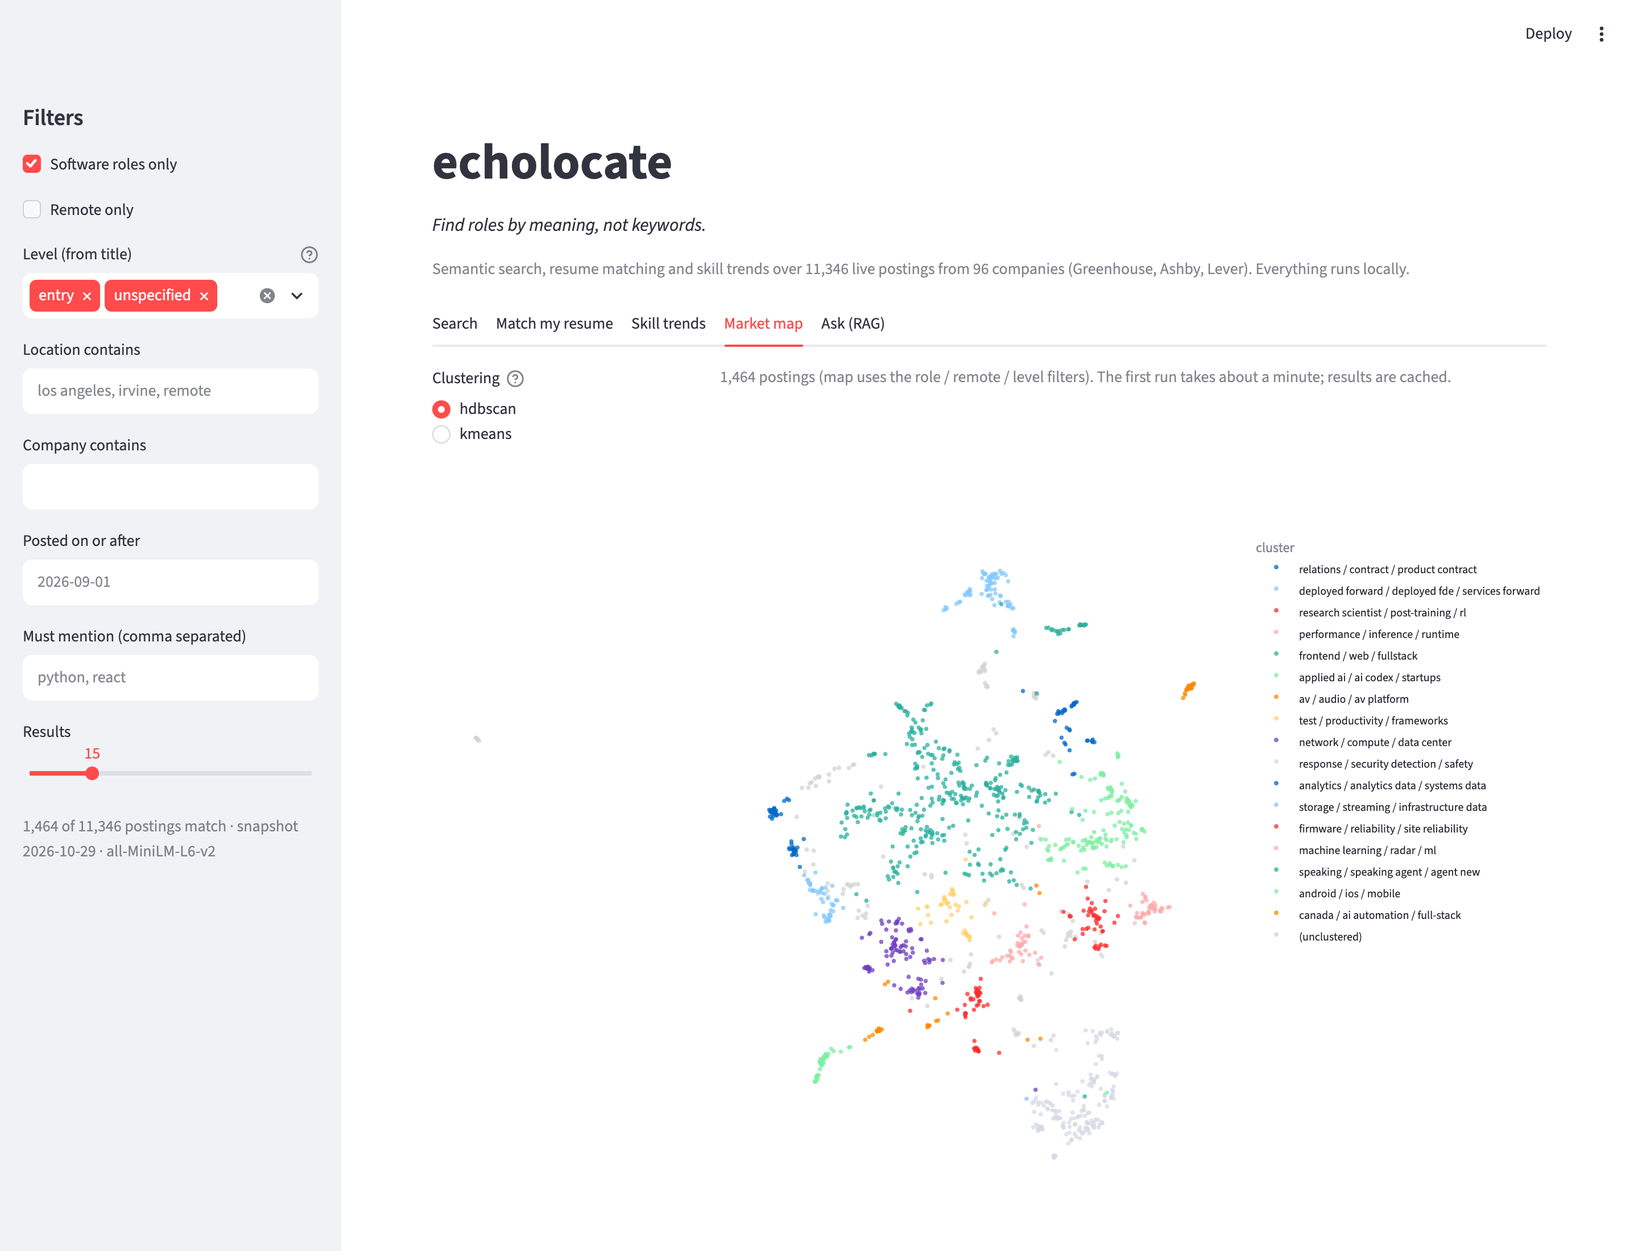
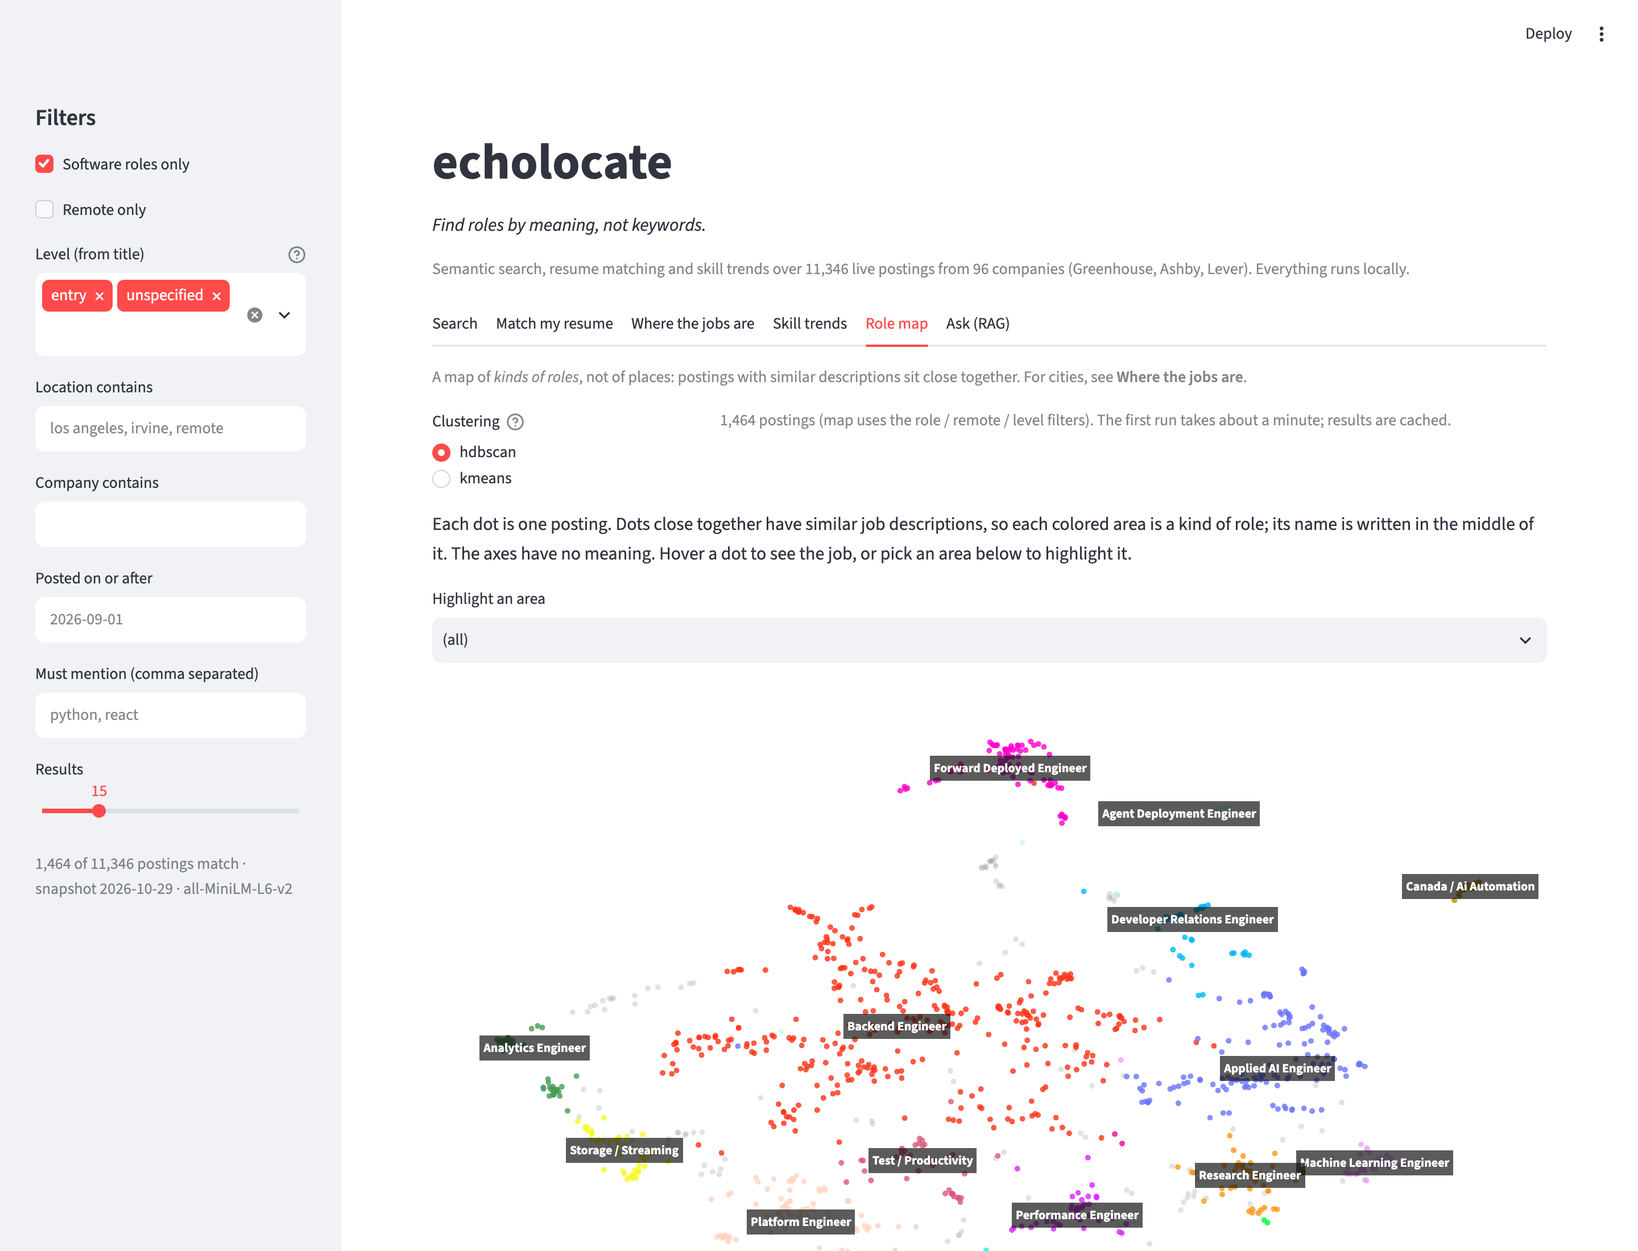
feat: add 'Where the jobs are' city map and rename Market map to Role map

diff --git a/app.py b/app.py
@@ -138,7 +138,7 @@ st.caption(f"Semantic search, resume matching and skill trends over {len(df):,} 
               "[source and setup on GitHub](https://github.com/sophiazhangio/echolocate)."
               if config.DEMO else "Everything runs locally."))
 
-tabs = st.tabs(["Search", "Match my resume", "Skill trends", "Market map", "Ask (RAG)"])
+tabs = st.tabs(["Search", "Match my resume", "Where the jobs are", "Skill trends", "Role map", "Ask (RAG)"])
 
 # --- Search ---------------------------------------------------------------------------
 with tabs[0]:
@@ -203,8 +203,73 @@ with tabs[1]:
             st.dataframe(top[["skill", "share", "on resume"]].rename(columns={"share": "% of postings"}),
                          hide_index=True, height=600)
 
-# --- Trends -----------------------------------------------------------------------------
+# --- Where ------------------------------------------------------------------------------
+@st.cache_resource(show_spinner="Placing postings on the map ...")
+def all_cities(_date: str) -> pd.DataFrame:
+    from echolocate.geo import city_table
+    return city_table(df)
+
+
+REGIONS = {"World": "world", "North America": "north america", "USA": "usa", "Europe": "europe", "Asia": "asia"}
+
 with tabs[2]:
+    try:
+        sub = df[f.mask(df)]
+        ct = all_cities(ix.latest_date)
+        here = ct[ct["row"].isin(sub.index)]
+        st.markdown("Each circle is a city. Bigger circles have more open postings that match the sidebar "
+                    "filters; a posting listed in several cities counts in each. Hover a circle for its top "
+                    "companies, or pick a city below to list its jobs.")
+        m1, m2, m3 = st.columns(3)
+        m1.metric("Postings with a city", f"{here['row'].nunique():,}")
+        m2.metric("Remote postings", f"{int(sub['remote'].sum()):,}")
+        m3.metric("Cities", f"{here.groupby(['city', 'country']).ngroups:,}")
+        region = st.radio("Region", list(REGIONS), horizontal=True, label_visibility="collapsed")
+        if here.empty:
+            st.info("No postings with a city match these filters.")
+        else:
+            agg = (here.groupby(["city", "country", "lat", "lon"])["row"]
+                   .agg(postings="nunique", companies=lambda r: ", ".join(df.loc[r, "company"].value_counts()
+                                                                           .head(4).index))
+                   .reset_index().sort_values("postings", ascending=False))
+            agg["place"] = agg["city"] + ", " + agg["country"]
+            fig = px.scatter_geo(agg, lat="lat", lon="lon", size="postings", hover_name="place",
+                                 hover_data={"postings": True, "companies": True, "lat": False, "lon": False},
+                                 size_max=45, scope=REGIONS[region],
+                                 **({} if region == "USA" else {"projection": "natural earth"}))
+            fig.update_traces(marker=dict(color="#ff4b4b", opacity=0.65, line=dict(width=0.5, color="white")))
+            # name the biggest cities, skipping any that sit right next to a bigger named one
+            near = {"World": 6.0, "USA": 1.5}.get(region, 3.0)
+            named = []
+            for r in agg.itertuples():
+                if len(named) == 15:
+                    break
+                if all(abs(r.lat - n.lat) > near or abs(r.lon - n.lon) > near for n in named):
+                    named.append(r)
+            top = pd.DataFrame(named)
+            fig.add_scattergeo(lat=top["lat"], lon=top["lon"], text=top["city"], mode="text",
+                               textposition="top center", textfont=dict(size=11), hoverinfo="skip",
+                               showlegend=False)
+            fig.update_geos(showcountries=True, countrycolor="rgba(140,140,140,0.7)", showcoastlines=True,
+                            coastlinecolor="rgba(140,140,140,0.7)", showland=True,
+                            landcolor="rgba(140,140,140,0.15)", showocean=False, showlakes=False,
+                            showsubunits=True, subunitcolor="rgba(140,140,140,0.35)", bgcolor="rgba(0,0,0,0)",
+                            showframe=False)
+            fig.update_layout(height=620, margin=dict(l=0, r=0, t=0, b=0))
+            st.plotly_chart(fig)
+            choices = [f"{r.place} ({r.postings})" for r in agg.itertuples()]
+            pick = st.selectbox("Jobs in a city", choices)
+            r = agg.iloc[choices.index(pick)]
+            rows = here[(here["city"] == r["city"]) & (here["country"] == r["country"])]["row"].unique()
+            jobs = df.loc[rows, ["title", "company", "level", "posted", "pay", "url"]].sort_values("posted",
+                                                                                                 ascending=False)
+            st.dataframe(jobs, hide_index=True, column_config={
+                "url": st.column_config.LinkColumn("link", display_text="open")})
+    except Exception:
+        st.error("The location map couldn't be drawn for these filters. Try widening them in the sidebar.")
+
+# --- Trends -----------------------------------------------------------------------------
+with tabs[3]:
     from echolocate.trends import by_posted_month, demand, over_time, rising
     sub = df[f.mask(df)]
     d = demand(sub)
@@ -237,15 +302,19 @@ with tabs[2]:
         st.plotly_chart(fig)
         st.caption("Older months only include postings that are still open, which skews toward hard-to-fill roles.")
 
-# --- Map --------------------------------------------------------------------------------
-with tabs[3]:
-    from echolocate.clusters import cluster_map
+# --- Role map ---------------------------------------------------------------------------
+def role_map_tab():
+    from echolocate.clusters import MIN_POSTINGS, cluster_map
     c1, c2 = st.columns([1, 3])
     method = c1.radio("Clustering", ["hdbscan", "kmeans"], help="HDBSCAN finds its own number of clusters "
                       "and leaves outliers unclustered; KMeans assigns everything to 20 clusters.")
     map_mask = Filters(software_only=software_only, remote_only=remote_only, levels=levels).mask(df)
     c2.caption(f"{map_mask.sum():,} postings (map uses the role / remote / level filters). "
                "The first run takes about a minute; results are cached.")
+    if map_mask.sum() < MIN_POSTINGS:
+        st.info(f"Only {map_mask.sum()} postings match the role / remote / level filters; the role map needs "
+                f"at least {MIN_POSTINGS}. Add a level or turn off 'Remote only' in the sidebar.")
+        return
     with st.spinner("Projecting with UMAP and clustering ..."):
         pts, clusters = cluster_map(ix, map_mask, method=method)
     st.markdown("Each dot is one posting. Dots close together have similar job descriptions, so each "
@@ -293,8 +362,17 @@ with tabs[3]:
     table = clusters.assign(area=clusters["label"].map(names)).rename(columns={"label": "keywords"})
     st.dataframe(table[["area", "keywords", "postings", "top companies", "top skills"]], hide_index=True)
 
-# --- RAG --------------------------------------------------------------------------------
+
 with tabs[4]:
+    st.caption("A map of *kinds of roles*, not of places: postings with similar descriptions sit close "
+               "together. For cities, see **Where the jobs are**.")
+    try:
+        role_map_tab()
+    except Exception:
+        st.error("The role map couldn't be drawn for these filters. Try widening them in the sidebar.")
+
+# --- RAG --------------------------------------------------------------------------------
+with tabs[5]:
     from echolocate.rag import ask, gather, ollama_status
     ok, msg = (False, "") if config.DEMO else ollama_status()
     if config.DEMO:

diff --git a/echolocate/geo.py b/echolocate/geo.py
@@ -1,0 +1,133 @@
+"""Turn free-text job locations into cities with coordinates, offline.
+
+Job boards write locations every which way ("San Francisco, CA | New York City, NY",
+"NY or SF; US", "ES - Barcelona, Spain"). We split the text into pieces, look each piece up in
+GeoNames' list of cities over 15k people (bundled by `geonamescache`, no network), and use a
+following state or country ("Portland, OR") to pick the right one when a name is shared.
+"""
+from __future__ import annotations
+
+import re
+import unicodedata
+from functools import lru_cache
+
+import pandas as pd
+
+# Shorthand job boards use that GeoNames doesn't list as a name.
+ALIASES = {
+    "nyc": "new york", "ny": "new york", "new york city": "new york", "nyc metro": "new york", "manhattan": "new york",
+    "brooklyn": "new york", "sf": "san francisco", "sfo": "san francisco", "bay area": "san francisco",
+    "sf bay area": "san francisco", "san francisco bay area": "san francisco", "dc": "washington",
+    "washington dc": "washington", "washington d.c.": "washington", "d.c.": "washington",
+    "bangalore": "bengaluru", "gurgaon": "gurugram", "la": "los angeles", "tel-aviv": "tel aviv",
+    "tel aviv-yafo": "tel aviv", "montreal": "montréal", "zurich": "zürich", "munich": "munich",
+    "sao paulo": "são paulo", "bogota": "bogotá", "mexico city": "mexico city", "cdmx": "mexico city",
+    "seoul": "seoul", "hong kong": "hong kong", "silicon valley": "san jose",
+}
+# Words around a city that aren't part of its name.
+_NOISE = re.compile(r"\b(remote|hybrid|on-?site|in[- ]office|office|offices|hq|headquarters|locations?|"
+                    r"greater|metro(politan)?|area|based|only|preferred|any|downtown|campus|city of)\b", re.I)
+# Countries we weight up when a bare name is shared (most postings here are US tech companies).
+_HOME = {"US": 2.5}
+_COUNTRY_ALIASES = {"usa": "US", "us": "US", "u.s.": "US", "u.s.a.": "US", "united states of america": "US",
+                    "uk": "GB", "england": "GB", "scotland": "GB", "great britain": "GB", "korea": "KR",
+                    "south korea": "KR", "uae": "AE", "the netherlands": "NL", "holland": "NL"}
+# Canadian provinces, which GeoNames stores as numeric codes.
+_CA_PROVINCES = {"bc": "02", "british columbia": "02", "on": "08", "ontario": "08", "qc": "10",
+                 "quebec": "10", "québec": "10", "ab": "01", "alberta": "01", "mb": "03", "ns": "07"}
+# Names that are a city and also a place we'd otherwise skip as a state or country.
+_CITY_STATES = {"new york", "singapore", "washington", "hong kong", "luxembourg", "monaco"}
+
+
+def _fold(s: str) -> str:
+    s = unicodedata.normalize("NFKD", s.lower())
+    return re.sub(r"\s+", " ", "".join(c for c in s if not unicodedata.combining(c))).strip(" .-")
+
+
+@lru_cache(maxsize=1)
+def _tables():
+    import geonamescache
+    gc = geonamescache.GeonamesCache(min_city_population=15000)
+    cities = list(gc.get_cities().values())
+    by_name: dict[str, list[dict]] = {}
+    for c in cities:
+        keys = {_fold(c["name"])}
+        if c["population"] >= 1_000_000:  # well-known alternate spellings of big cities only
+            keys |= {_fold(a) for a in c["alternatenames"] if a.isascii() and len(a) > 3}
+        for k in keys:
+            by_name.setdefault(k, []).append(c)
+    for alias, target in ALIASES.items():
+        if _fold(target) in by_name:
+            by_name.setdefault(_fold(alias), by_name[_fold(target)])
+    countries = {}
+    for iso, c in gc.get_countries().items():
+        countries[_fold(c["name"])] = iso
+        countries[iso.lower()] = iso
+        countries[c["iso3"].lower()] = iso
+    countries.update(_COUNTRY_ALIASES)
+    states = {}
+    for code, s in gc.get_us_states().items():
+        states[code.lower()] = code
+        states[_fold(s["name"])] = code
+    names = {iso: c["name"] for iso, c in gc.get_countries().items()}
+    return by_name, countries, states, names
+
+
+def _qualifies(city: dict, token: str) -> bool:
+    _, countries, states, _ = _tables()
+    t = _fold(token)
+    if t in states and city["countrycode"] == "US":
+        return city["admin1code"] == states[t]
+    if t in _CA_PROVINCES and city["countrycode"] == "CA":
+        return city["admin1code"] == _CA_PROVINCES[t]
+    if t in countries:
+        return city["countrycode"] == countries[t]
+    return False
+
+
+def _pick(cands: list[dict], qualifier: str | None) -> tuple[dict, bool]:
+    if qualifier:
+        q = [c for c in cands if _qualifies(c, qualifier)]
+        if q:
+            return max(q, key=lambda c: c["population"]), True
+    return max(cands, key=lambda c: c["population"] * _HOME.get(c["countrycode"], 1)), False
+
+
+def parse(location: str | None) -> list[dict]:
+    """Cities mentioned in a location string, each as {city, country, lat, lon}, without repeats."""
+    if not location:
+        return []
+    by_name, countries, states, names = _tables()
+    text = re.sub(r"\(.*?\)|\[.*?\]", " ", location)
+    out, seen = [], set()
+    for part in re.split(r"\s*(?:;|\||•|/|\n|\s-\s|–|—|\bor\b|\band\b|&)\s*", text, flags=re.I):
+        tokens = [t.strip() for t in part.split(",")]
+        i = 0
+        while i < len(tokens):
+            t = _fold(_NOISE.sub(" ", tokens[i]))
+            skip = (t in countries or t in states) and t not in _CITY_STATES and t not in ALIASES
+            cands = None if skip or len(t) < 2 else by_name.get(t)
+            if not cands:
+                i += 1
+                continue
+            nxt = tokens[i + 1] if i + 1 < len(tokens) else None
+            city, used = _pick(cands, nxt)
+            i += 2 if used else 1
+            # an unqualified small town is more likely a false hit than a real office
+            if not used and city["population"] < 50_000 and t not in ALIASES:
+                continue
+            if city["geonameid"] not in seen:
+                seen.add(city["geonameid"])
+                out.append({"city": city["name"], "country": names.get(city["countrycode"], city["countrycode"]),
+                            "lat": city["latitude"], "lon": city["longitude"]})
+    return out
+
+
+def city_table(postings: pd.DataFrame) -> pd.DataFrame:
+    """One row per (posting, city) for the postings given; postings with no city are left out."""
+    cache = {loc: parse(loc) for loc in postings["location"].dropna().unique()}
+    rows = []
+    for idx, loc in postings["location"].items():
+        for c in cache.get(loc, []):
+            rows.append({"row": idx, **c})
+    return pd.DataFrame(rows, columns=["row", "city", "country", "lat", "lon"])

diff --git a/tests/test_core.py b/tests/test_core.py
@@ -180,3 +180,40 @@ def test_read_resume_errors_are_readable(tmp_path):
     latin = tmp_path / "l.txt"
     latin.write_bytes(("Python developer caf\xe9 " * 10).encode("latin-1"))
     assert "Python" in read_resume(latin)
+
+
+def test_geo_parse_locations():
+    from echolocate.geo import parse
+    city = lambda s: [(c["city"], c["country"]) for c in parse(s)]
+    assert city("NY or SF; US") == [("New York City", "United States"), ("San Francisco", "United States")]
+    assert city("Portland, OR")[0] == ("Portland", "United States")
+    assert city("Vancouver, BC")[0][1] == "Canada"
+    assert city("Cambridge, UK")[0][1] == "United Kingdom"
+    assert city("ES - Barcelona, Spain; Barcelona") == [("Barcelona", "Spain")]
+    assert city("Remote - US") == [] and city("Phillipsburg Warehouse") == []
+
+
+def test_cluster_map_small_selection():
+    import numpy as np
+    import pytest
+    from echolocate.clusters import cluster_map
+    ix = _index(30)  # helper below builds a fake index
+    pts, clusters = cluster_map(ix, np.ones(30, bool), cache=False)
+    assert len(clusters) >= 2 and len(pts) == 30
+    with pytest.raises(ValueError):
+        cluster_map(ix, np.arange(30) < 10, cache=False)
+
+
+def _index(n):
+    import numpy as np
+    import pandas as pd
+    from types import SimpleNamespace
+    rng = np.random.default_rng(0)
+    centers = rng.normal(size=(3, 16))
+    vecs = np.vstack([centers[i % 3] + 0.05 * rng.normal(size=16) for i in range(n)]).astype(np.float32)
+    vecs /= np.linalg.norm(vecs, axis=1, keepdims=True)
+    df = pd.DataFrame({"id": [str(i) for i in range(n)], "company": [f"c{i % 5}" for i in range(n)],
+                       "title": [["Backend Engineer", "iOS Engineer", "Data Engineer"][i % 3] for i in range(n)],
+                       "location": "SF", "level": "entry", "remote": False, "url": "",
+                       "skills": [["Python"]] * n})
+    return SimpleNamespace(postings=df, posting_vecs=vecs, latest_date="2026-10-29", model="fake")

diff --git a/scripts/screenshots.py b/scripts/screenshots.py
@@ -1,11 +1,12 @@
 """Regenerate docs/*.png from a running app (streamlit run app.py). Needs `pip install playwright`
 and Google Chrome; run: python scripts/screenshots.py"""
 
+import os
 from pathlib import Path
 
 from playwright.sync_api import sync_playwright
 
-URL = "http://localhost:8501"
+URL = os.environ.get("ECHO_URL", "http://localhost:8501")
 OUT = Path(__file__).resolve().parent.parent / "docs"
 
 
@@ -31,12 +32,17 @@ with sync_playwright() as p:
     page.get_by_text("Closest postings").wait_for()
     page.screenshot(path=OUT / "resume.png")
 
+    tab(page, "Where the jobs are")
+    page.locator(".js-plotly-plot:visible").first.wait_for()
+    page.wait_for_timeout(3000)
+    page.screenshot(path=OUT / "where.png")
+
     tab(page, "Skill trends")
-    page.locator(".js-plotly-plot").first.wait_for()
+    page.locator(".js-plotly-plot:visible").first.wait_for()
     page.screenshot(path=OUT / "trends.png")
 
-    tab(page, "Market map")
-    page.locator(".js-plotly-plot").last.wait_for()
+    tab(page, "Role map")
+    page.locator(".js-plotly-plot:visible").first.wait_for()
     page.wait_for_timeout(3000)
     page.screenshot(path=OUT / "map.png")
 

diff --git a/README.md b/README.md
@@ -18,7 +18,8 @@ Everything runs on a laptop. No paid APIs or API keys: embeddings come from `sen
 | **Match my resume** | Ranks postings by similarity to a resume PDF, and lists the skills those postings ask for with a check for the ones the resume already shows. |
 | **More like this** | Nearest neighbours of any posting (re-posts of the same role in other cities are skipped). |
 | **Skill trends** | Share of postings that mention each of ~55 skills, per daily snapshot, plus a publish-month view that works from a single snapshot. |
-| **Market map** | UMAP projection of every posting, clustered with HDBSCAN (or KMeans) and named automatically from the most distinctive title words in each cluster. |
+| **Where the jobs are** | World / US map of open postings by city, from free-text locations ("NY or SF; US", "Portland, OR") resolved offline against GeoNames; pick a city to list its jobs. |
+| **Role map** | A map of *kinds of roles*, not places: UMAP projection of every posting, clustered with HDBSCAN (or KMeans), each area named after its most common specific job title. |
 | **Ask (RAG)** | Answers questions from the retrieved postings only, with numbered citations that link to each posting. |
 
 ## How it works
@@ -74,7 +75,7 @@ Embeddings miss exact tool names (Spark, Airflow); keywords fail on short ambigu
 
 Two other checks that changed the design:
 
-- **Market map before and after company centering.** Without it, the average share of a cluster's largest company was 81% (clusters were "Stripe", "Roblox", "Cloudflare"). With it, 28%, and clusters read as role types: applied AI / agents, storage & databases, security, frontend, forward-deployed, payments, mobile, SRE.
+- **Role map before and after company centering.** Without it, the average share of a cluster's largest company was 81% (clusters were "Stripe", "Roblox", "Cloudflare"). With it, 28%, and clusters read as role types: applied AI / agents, storage & databases, security, frontend, forward-deployed, payments, mobile, SRE.
 - **Grounding.** An early RAG answer called London roles "remote" because the question's "remote" was only used for similarity. Now the same query parser that powers search turns "remote" / "new grad" into hard filters before retrieval, and each source tells the model its level.
 
 ## Setup
@@ -134,7 +135,8 @@ All optional, as environment variables:
 | | |
 |---|---|
 | ![Match my resume](docs/resume.png) **Match my resume**: closest postings and which in-demand skills the resume shows | ![Skill trends](docs/trends.png) **Skill trends**: share of entry/unspecified-level software postings that mention each skill |
-| ![Market map](docs/map.png) **Market map**: UMAP + HDBSCAN on company-centred embeddings | ![Ask](docs/rag.png) **Ask (RAG)**: Llama 3.2 3B answering from retrieved postings, with citations |
+| ![Where the jobs are](docs/where.png) **Where the jobs are**: open postings by city, world or US view | ![Role map](docs/map.png) **Role map**: UMAP + HDBSCAN on company-centred embeddings, areas named by job title |
+| ![Ask](docs/rag.png) **Ask (RAG)**: Llama 3.2 3B answering from retrieved postings, with citations | |
 
 ## Project layout
 
@@ -145,7 +147,8 @@ echolocate/
   search.py     dense / sparse / hybrid search, filters, similar-to, resume matching, RAG retrieval
   skills.py     skill vocabulary (regex per skill)
   trends.py     demand counts, per-snapshot and per-month shares
-  clusters.py   UMAP + HDBSCAN / KMeans market map with automatic labels
+  clusters.py   UMAP + HDBSCAN / KMeans role map with automatic labels
+  geo.py        free-text job locations -> cities with coordinates (offline GeoNames)
   rag.py        Ollama client and grounded prompt
   evaluate.py   precision@10 benchmark
 app.py          Streamlit UI
